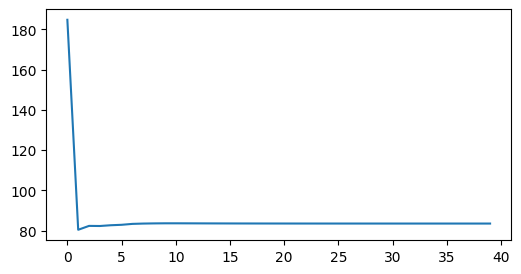
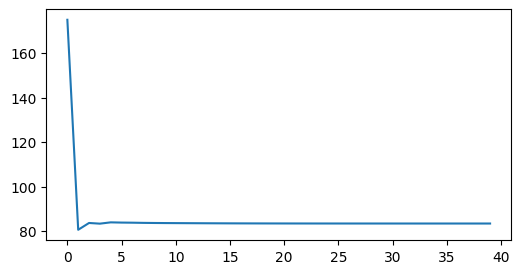
Update test fixed points cities_us_toy

diff --git a/pmds/config.py b/pmds/config.py
@@ -167,9 +167,14 @@ pre_config = {
             std=False,
             pca=None,
             fixed_points=[
-                (0, -0.2, -0.2),  # New York
-                (6, 0.2, 0.2),  # Olympia
-                # (5, 0.0, 0.0),  # Austin
+                # (0, 0.3, 0.0),  # New York
+                # (6, -0.2, 0.1),  # Olympia
+                # (0, -0.2, -0.2),
+                # (6, 0.3, 0.2),
+                (0, -0.2, -0.15),
+                (2, 0.3, 0.2),  # Los-Angles
+                (4, -0.2, 0.1),  # Miami
+                # (5, 0.055555, 0.1),
             ],
             ### params for MDS-jax
             epochs_mds=10,
